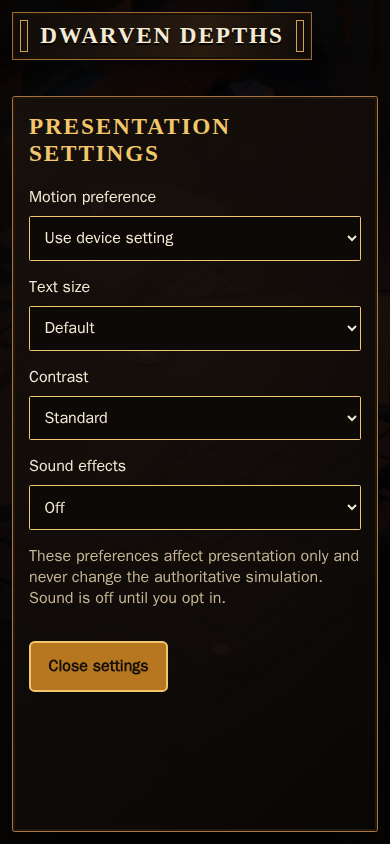
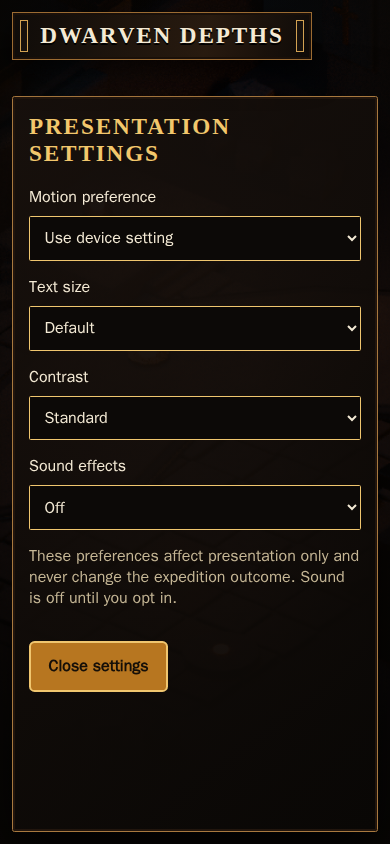
Refresh exact-source company shell evidence

Changed region(s): [[0.0923, 0.6777, 0.8923, 0.7393]]

diff --git a/docs/visual-evidence/concept-shell/wip-03/README.md b/docs/visual-evidence/concept-shell/wip-03/README.md
@@ -1,10 +1,10 @@
 # Concept shell WIP 03 — complete #274 review packet
 
-- Running-client source head: `43511a17db2b66c3b1e514ba1abba1f95ec886ea`.
+- Running-client source head: `b2036f03104a88eab78e6e2a8a73db0e26bb658a`.
 - Viewports: desktop 1440×900 and mobile 390×844, Chromium, device scale 1, reduced motion.
 - States: combined title/checkpoint/company roster, Ancestral Forge, presentation settings, preparation, victory result, and failure/recovery.
 - The checkpoint, Forge, settings, and preparation captures use the production client and local profile. Result and failure use capture-local protocol-valid Workers to reach those existing client states deterministically; the fixture does not alter production code or claim simulation evidence.
 - `packet.json` binds every PNG to source head, viewport, phase, shell view, visible actions, SHA-256, scroll bounds, hidden inspection surfaces, and stable-ID absence.
 - Capture command: `node scripts/capture-concept-shell-packet.mjs` against a production preview at `http://127.0.0.1:4173`.
 
-This replacement packet preserves the product-owner-approved desktop shell language while resolving exact-head review blockers: the Forge has one visible dominant return action, failure copy cannot expose worker internals in player mode, storage recovery uses player-facing language, and capture rejects tracked source changes. Mobile remains functional evidence only and is visually deferred to #276. This materially changed packet requires renewed product-owner desktop approval.
+This replacement packet preserves the product-owner-approved desktop shell language while resolving exact-head review blockers: the Forge has one visible dominant return action; storage, startup, malformed-message, and transport failures use bounded player-facing language; failed workers are retired before stale messages can replace recovery; settings and running status omit implementation language; and capture rejects tracked source changes. Mobile remains functional evidence only and is visually deferred to #276. This materially changed packet requires renewed product-owner desktop approval.
